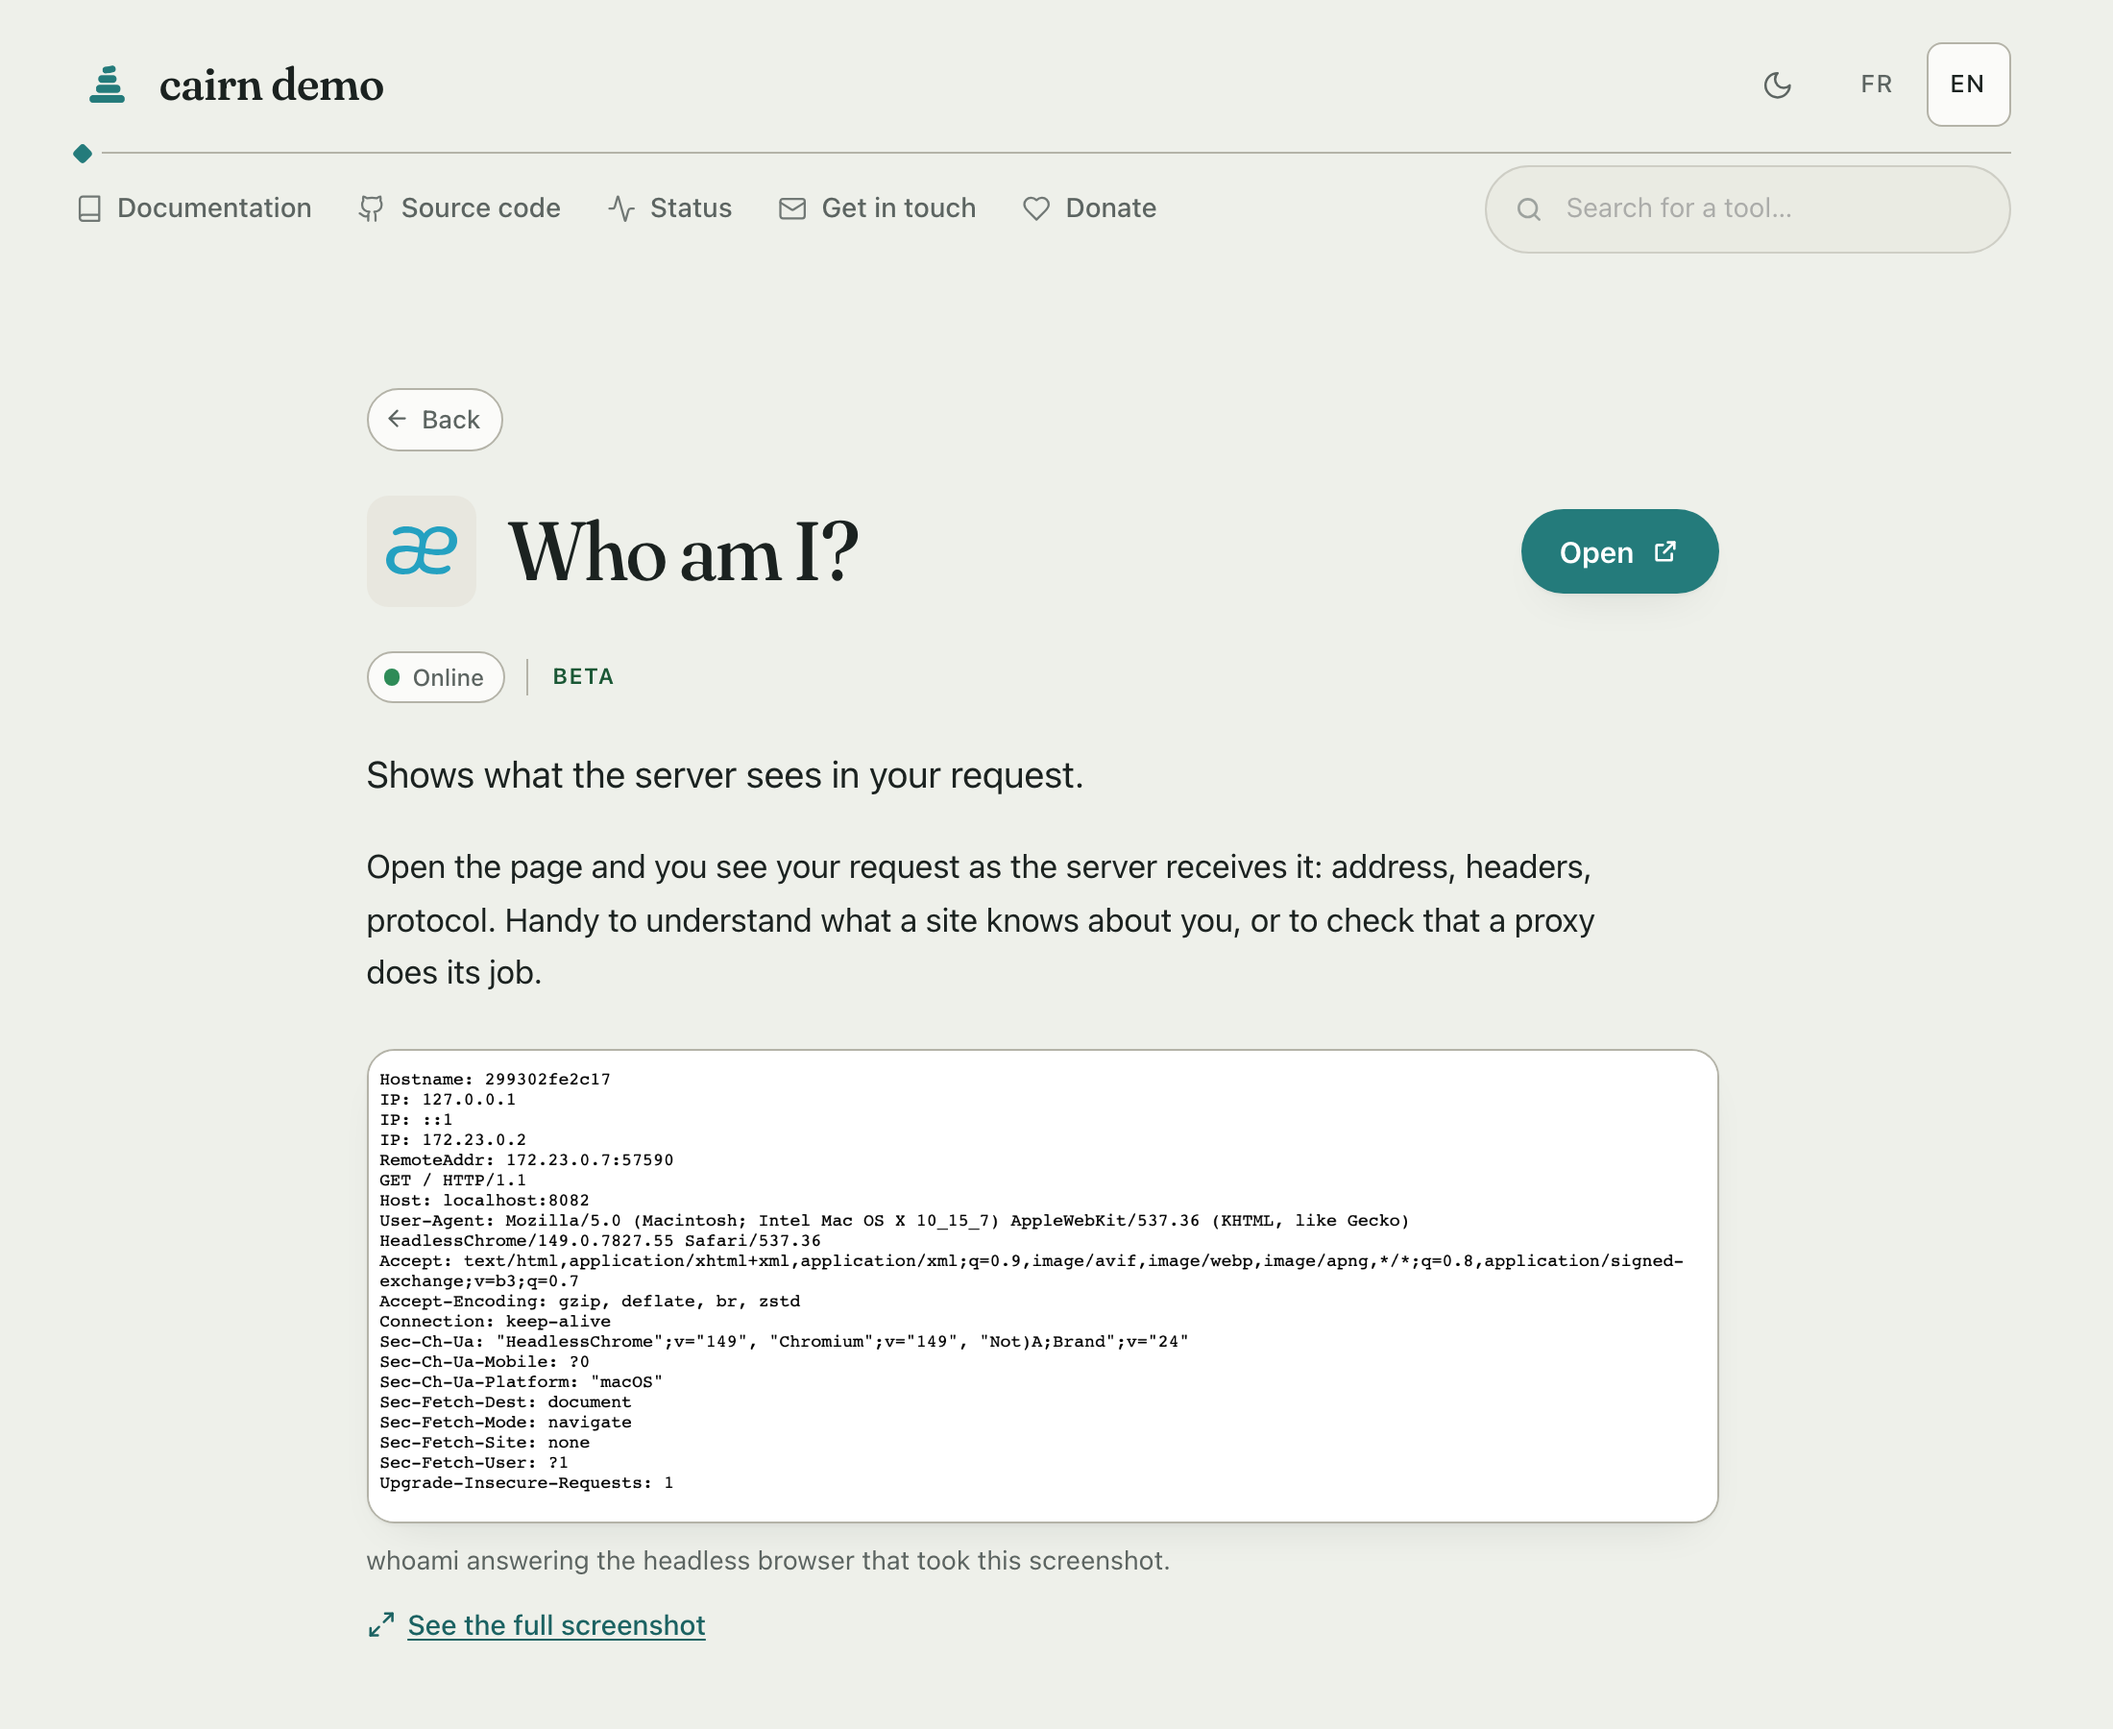
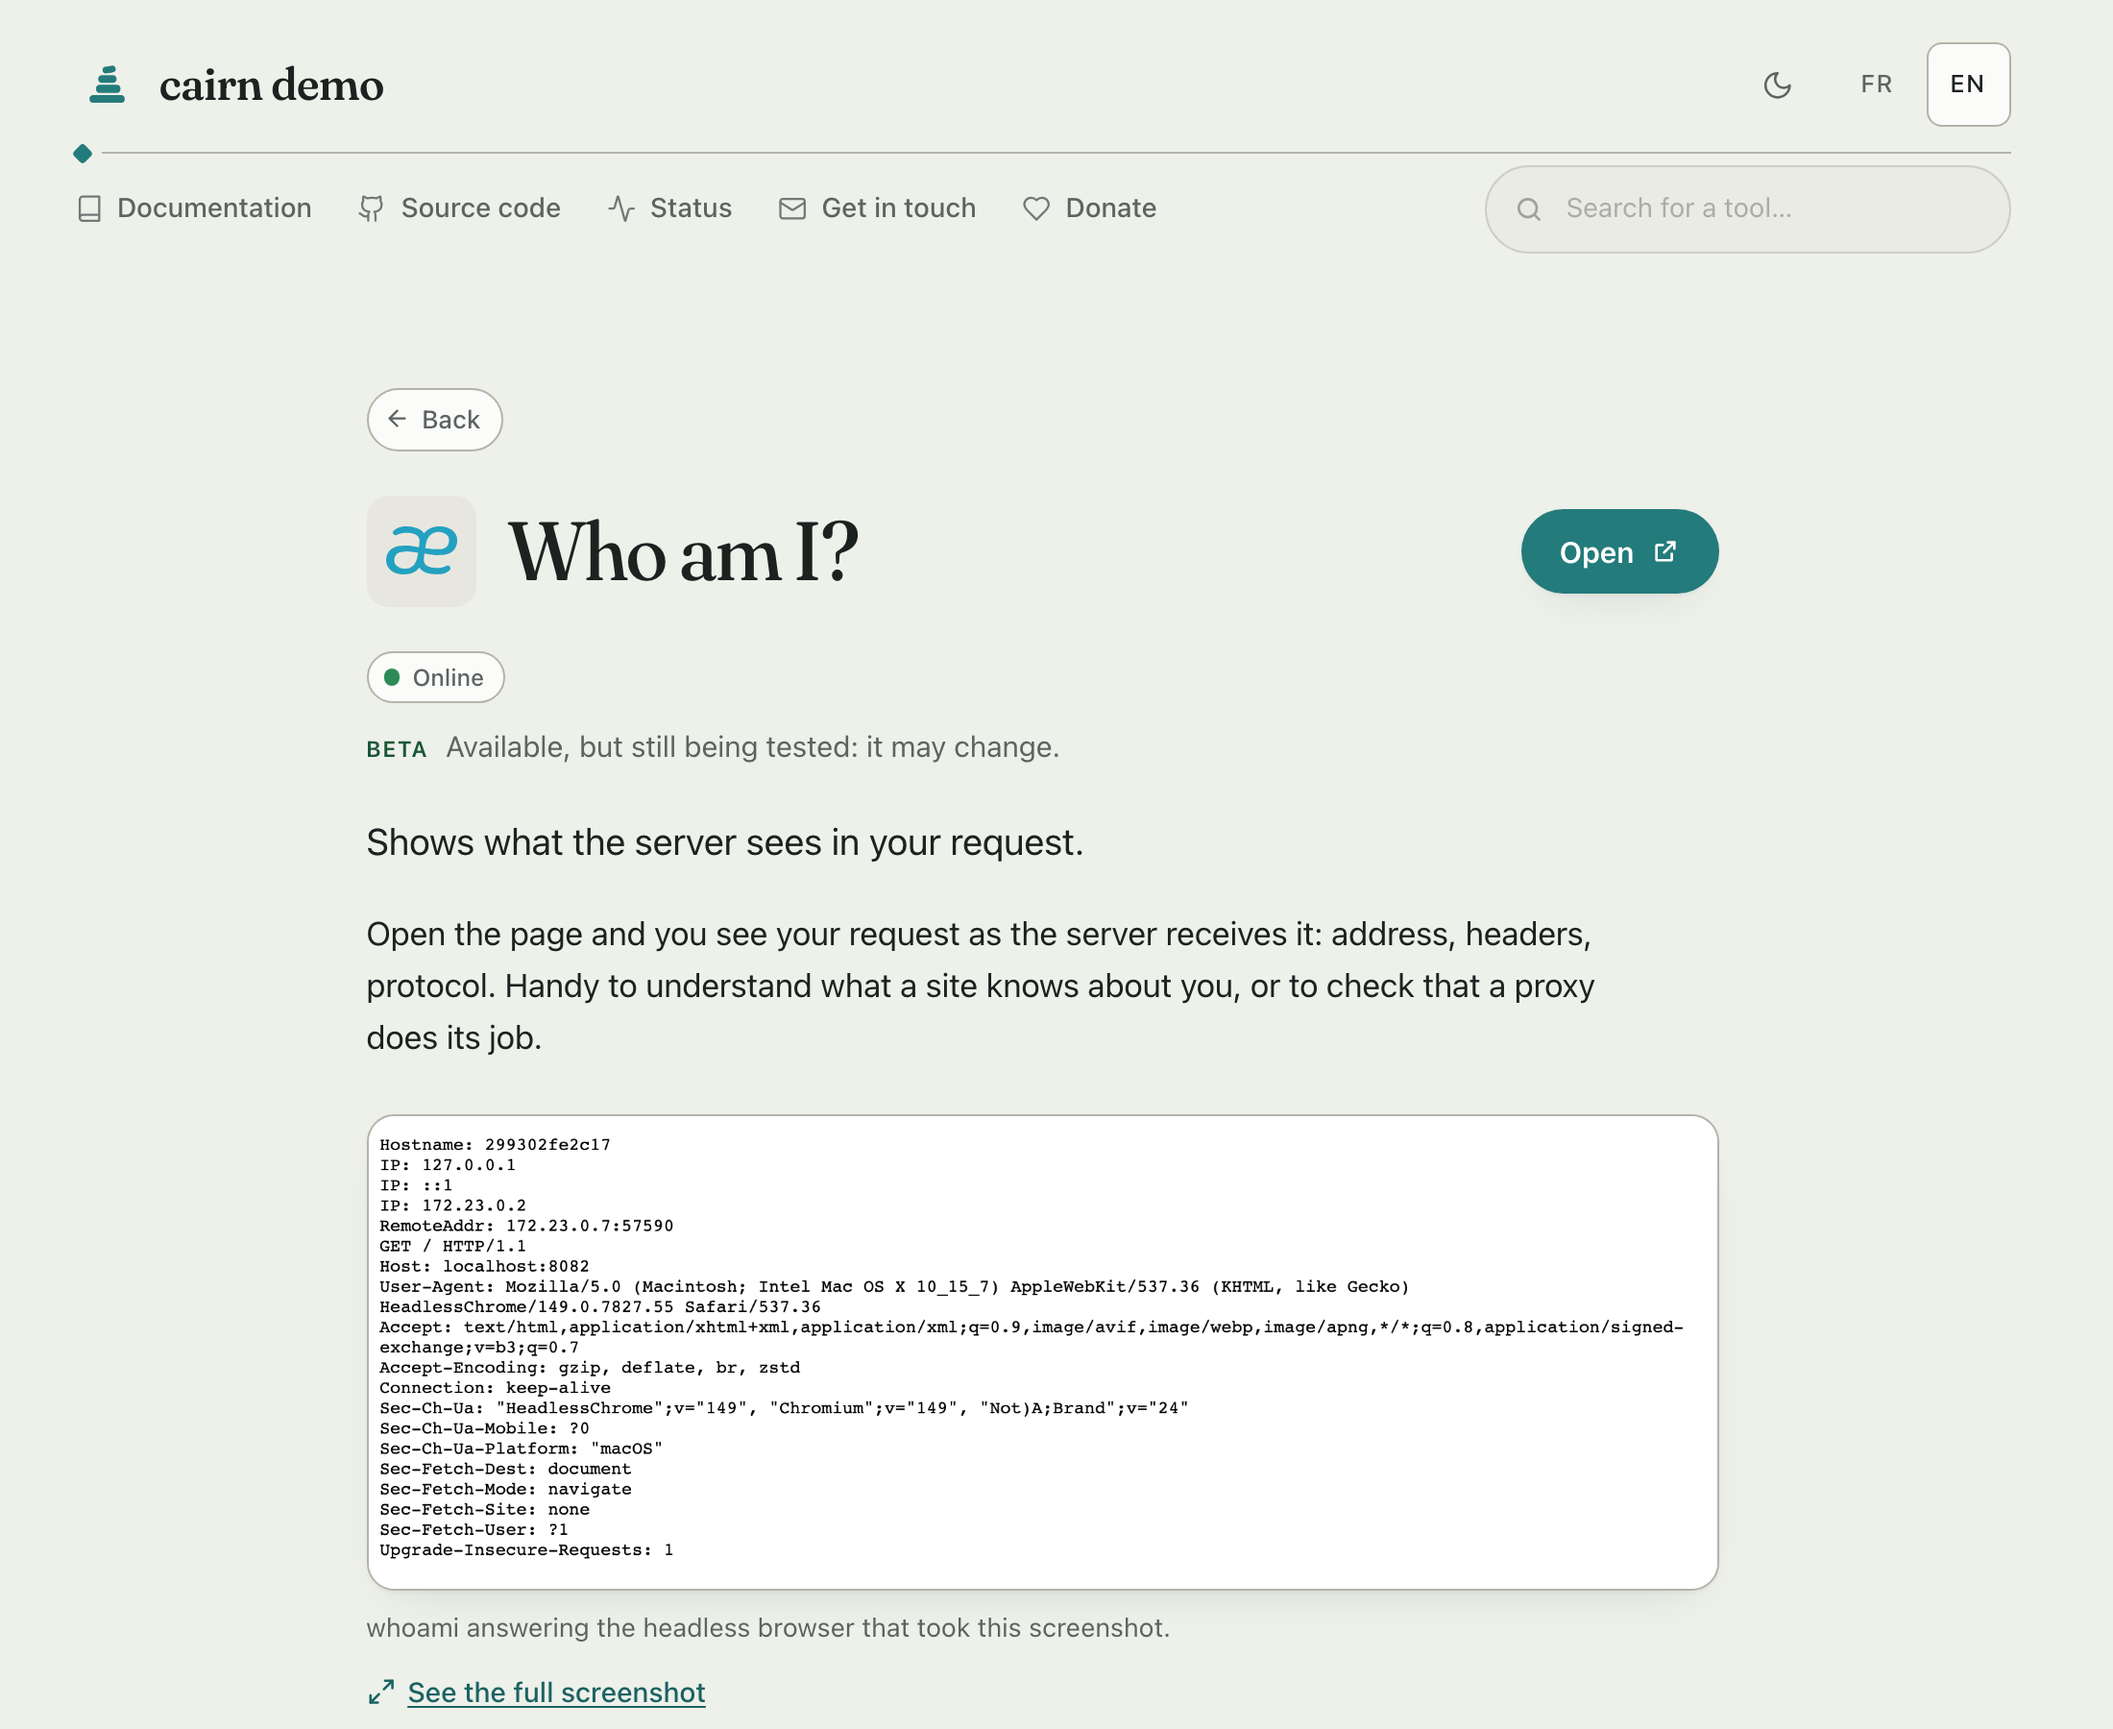
Bump to 1.26.0
One feature since 1.25.1 (#152): each service state explains itself. The
badge on a card opens a one-line note in the browser's own popover, the
detail page shows the note under the status pill, the five notes ship in
the eight built-in languages, and state_note replaces a service's note.

Compared against v1.25.1 through the same config trees: 153 responses,
144 identical once asset digests are blurred. The 3 that differ are the
states fixture's home page (badges become buttons with their notes) and
its two detail pages (the state line gains its note); the 6 on one side
only are the new stylesheet URL. A control diffing two different pages
printed 132 lines.

just shots rewrote all six images: the cards' badges changed. 603 Go
tests, chart lint clean.

diff --git a/docs/deployment/airgap.md b/docs/deployment/airgap.md
@@ -14,7 +14,7 @@ page renders, and the icons are simply missing.
 
 | Artifact             | Size     | Where it comes from                                            |
 | -------------------- | -------- | -------------------------------------------------------------- |
-| `cairn-1.25.1.tgz`   | 4 KB     | `helm pull`, the signed artifact rather than the folder in git |
+| `cairn-1.26.0.tgz`   | 4 KB     | `helm pull`, the signed artifact rather than the folder in git |
 | `gatus-1.5.0.tgz`    | 9 KB     | the Gatus project's own chart                                  |
 | `images.tar`         | 26 MB    | `docker save` of cairn and Gatus                               |
 | `assets/icons/*.svg` | a few KB | what `cairn -emit-icons` downloads                             |
@@ -32,7 +32,7 @@ Everything in this section can be done by hand, and the rest of it shows how.
 If you have cairn checked out, two of the steps are a recipe:
 
 ```sh
-just save 1.25.1 linux/amd64   # the platform of the cluster, not of your laptop
+just save 1.26.0 linux/amd64   # the platform of the cluster, not of your laptop
 ```
 
 That pulls cairn's image for that one platform, saves it to `dist/`, pulls the
@@ -54,14 +54,14 @@ The order matters. `cosign verify` queries the public transparency log, so it is
 not something you get to do on the other side.
 
 ```sh
-helm pull oci://ghcr.io/morgankryze/charts/cairn --version 1.25.1
+helm pull oci://ghcr.io/morgankryze/charts/cairn --version 1.26.0
 
-cosign verify ghcr.io/morgankryze/charts/cairn:1.25.1 \
+cosign verify ghcr.io/morgankryze/charts/cairn:1.26.0 \
   --certificate-identity-regexp '^https://github.com/MorganKryze/cairn/' \
   --certificate-oidc-issuer https://token.actions.githubusercontent.com
 ```
 
-The same two lines for `morgankryze/cairn:1.25.1`, the image. Keep the
+The same two lines for `morgankryze/cairn:1.26.0`, the image. Keep the
 output: this is the only moment where you can prove where these bytes came from.
 
 Gatus publishes its own chart, from a classic repository rather than a registry,
@@ -86,7 +86,7 @@ amd64 cluster from an arm64 laptop is the classic way to learn this at
 ```sh
 PLATFORM=linux/amd64
 
-docker pull --platform $PLATFORM morgankryze/cairn:1.25.1
+docker pull --platform $PLATFORM morgankryze/cairn:1.26.0
 docker pull --platform $PLATFORM ghcr.io/twin/gatus:v5.36.0
 ```
 
@@ -97,9 +97,9 @@ names nothing you can reason about six months later. To be exact, v5.36.0 is
 Then give both the name they will carry inside, and save them together:
 
 ```sh
-docker tag morgankryze/cairn:1.25.1 harbor.internal/cairn:1.25.1
+docker tag morgankryze/cairn:1.26.0 harbor.internal/cairn:1.26.0
 docker tag ghcr.io/twin/gatus:v5.36.0 harbor.internal/gatus:5.36.0
-docker save harbor.internal/cairn:1.25.1 harbor.internal/gatus:5.36.0 -o images.tar
+docker save harbor.internal/cairn:1.26.0 harbor.internal/gatus:5.36.0 -o images.tar
 ```
 
 Retag even if you have no registry. An image named after a host that resolves
@@ -111,7 +111,7 @@ to have a route after all: the mistake becomes loud instead of invisible.
 This is the step nothing downstream will remind you about.
 
 ```sh
-docker run --rm -v ./config:/config morgankryze/cairn:1.25.1 -emit-icons > get-icons.sh
+docker run --rm -v ./config:/config morgankryze/cairn:1.26.0 -emit-icons > get-icons.sh
 mkdir -p assets && (cd assets && sh ../get-icons.sh)
 ```
 
@@ -123,7 +123,7 @@ bring the files. See [Icons](../recipes/icons.md).
 ### The Gatus endpoints
 
 ```sh
-docker run --rm -v ./config:/config morgankryze/cairn:1.25.1 -emit-gatus > gatus-endpoints.yaml
+docker run --rm -v ./config:/config morgankryze/cairn:1.26.0 -emit-gatus > gatus-endpoints.yaml
 ```
 
 One endpoint per service, named after its id, which is how each pill finds its
@@ -133,7 +133,7 @@ service. More in [Status page](../recipes/status.md).
 
 ```sh
 docker run --rm -v ./config:/config:ro -v ./assets:/assets:ro \
-  morgankryze/cairn:1.25.1 -check
+  morgankryze/cairn:1.26.0 -check
 ```
 
 **Mount both directories.** Given only `/config`, `-check` cannot see the icons
@@ -164,7 +164,7 @@ the far side of the gap there is no fixing a broken image with a download.
 
 ```sh
 docker load -i images.tar
-docker push harbor.internal/cairn:1.25.1
+docker push harbor.internal/cairn:1.26.0
 docker push harbor.internal/gatus:5.36.0
 ```
 
@@ -174,7 +174,7 @@ Harbor, Zot or `registry:2` you already run. The chart wants one value.
 ```yaml
 image:
   repository: harbor.internal/cairn
-  tag: "1.25.1"
+  tag: "1.26.0"
 # Only if the project is private. The Secrets have to exist in the namespace
 # already; the chart names them, it does not create them.
 imagePullSecrets:
@@ -186,7 +186,7 @@ OCI artifacts, so a project named `helm` holds them next to the images and
 nothing else has to be installed:
 
 ```sh
-helm push cairn-1.25.1.tgz oci://harbor.internal/helm
+helm push cairn-1.26.0.tgz oci://harbor.internal/helm
 helm push gatus-1.5.0.tgz oci://harbor.internal/helm
 ```
 
@@ -221,7 +221,7 @@ it worked:
 
 ```console
 $ kubectl get events --field-selector reason=Pulled
-Container image "harbor.internal/cairn:1.25.1" already present on machine
+Container image "harbor.internal/cairn:1.26.0" already present on machine
 Container image "harbor.internal/gatus:5.36.0" already present on machine
 ```
 
@@ -245,7 +245,7 @@ under `binaryData` on its own.
 # values.yaml
 image:
   repository: harbor.internal/cairn
-  tag: "1.25.1"
+  tag: "1.26.0"
 
 config:
   site.yaml: |
@@ -294,7 +294,7 @@ and one version to name, which is also what Argo CD will read:
 
 ```sh
 helm registry login harbor.internal --ca-file /etc/pki/internal-ca.crt
-helm install cairn oci://harbor.internal/helm/cairn --version 1.25.1 \
+helm install cairn oci://harbor.internal/helm/cairn --version 1.26.0 \
   --ca-file /etc/pki/internal-ca.crt -f values.yaml
 ```
 
@@ -311,7 +311,7 @@ credential store: a `docker login` already done on that host does not count.
 Without a registry, install what you carried:
 
 ```sh
-helm install cairn ./cairn-1.25.1.tgz -f values.yaml
+helm install cairn ./cairn-1.26.0.tgz -f values.yaml
 ```
 
 `linked: false` is a decision rather than an omission. Without it the pills link
@@ -651,7 +651,7 @@ no shell, no busybox, nothing to attach to. What you need is in the logs, on
 The same crossing, then:
 
 ```sh
-helm upgrade cairn oci://harbor.internal/helm/cairn --version 1.25.1 -f values.yaml
+helm upgrade cairn oci://harbor.internal/helm/cairn --version 1.26.0 -f values.yaml
 ```
 
 Always pass your full values file. As soon as one `-f` is present, Helm stops

diff --git a/docs/deployment/helm.md b/docs/deployment/helm.md
@@ -26,8 +26,8 @@ kubectl port-forward svc/cairn 8080:80
 
 Add `--version` with the number from the
 [releases](https://github.com/MorganKryze/cairn/releases) to pin. Chart version
-and cairn version are the same number, always: chart `1.25.1` installs cairn
-`1.25.1`, so there is only ever one version to talk about, and `image.tag` is
+and cairn version are the same number, always: chart `1.26.0` installs cairn
+`1.26.0`, so there is only ever one version to talk about, and `image.tag` is
 there if you ever want to break the pair apart.
 
 ## Seeing it filled first
@@ -229,8 +229,8 @@ OCI artifact, so it can be mirrored into whatever registry you already keep, and
 driven from there:
 
 ```sh
-helm pull oci://ghcr.io/morgankryze/charts/cairn --version 1.25.1
-helm push cairn-1.25.1.tgz oci://harbor.internal/helm
+helm pull oci://ghcr.io/morgankryze/charts/cairn --version 1.26.0
+helm push cairn-1.26.0.tgz oci://harbor.internal/helm
 ```
 
 Argo CD needs the repository declared before an Application can name it. Note
@@ -266,7 +266,7 @@ spec:
   source:
     repoURL: harbor.internal/helm
     chart: cairn
-    targetRevision: 1.25.1
+    targetRevision: 1.26.0
     helm:
       valuesObject:
         ingress:
@@ -290,7 +290,7 @@ spec:
   sources:
     - repoURL: harbor.internal/helm
       chart: cairn
-      targetRevision: 1.25.1
+      targetRevision: 1.26.0
       helm:
         valueFiles:
           - $values/cairn/values.yaml
@@ -317,7 +317,7 @@ The chart is signed the same way the image is, keylessly, bound to the workflow
 that published it:
 
 ```sh
-cosign verify ghcr.io/morgankryze/charts/cairn:1.25.1 \
+cosign verify ghcr.io/morgankryze/charts/cairn:1.26.0 \
   --certificate-identity-regexp '^https://github.com/MorganKryze/cairn/' \
   --certificate-oidc-issuer https://token.actions.githubusercontent.com
 ```

diff --git a/docs/deployment/static.md b/docs/deployment/static.md
@@ -37,7 +37,7 @@ With the binary from a [release](https://github.com/MorganKryze/cairn/releases),
 here for Linux on amd64 (`linux_arm64` and `darwin_arm64` are there too):
 
 ```sh
-curl -fsSL https://github.com/MorganKryze/cairn/releases/download/v1.25.1/cairn_1.25.1_linux_amd64.tar.gz | tar -xz cairn
+curl -fsSL https://github.com/MorganKryze/cairn/releases/download/v1.26.0/cairn_1.26.0_linux_amd64.tar.gz | tar -xz cairn
 ./cairn -config ./config -assets ./assets -export site.zip
 ```
 
@@ -45,7 +45,7 @@ With the image, and nothing else installed:
 
 ```sh
 docker run --rm --user "$(id -u):$(id -g)" -v "$PWD:/work" \
-  morgankryze/cairn:1.25.1 -config /work/config -assets /work/assets -export /work/site.zip
+  morgankryze/cairn:1.26.0 -config /work/config -assets /work/assets -export /work/site.zip
 ```
 
 Keep `--user`. The image runs as `nobody`, and `nobody` cannot write into a
@@ -149,7 +149,7 @@ jobs:
       - name: export the site
         run: |
           docker run --rm --user "$(id -u):$(id -g)" -v "$PWD:/work" \
-            morgankryze/cairn:1.25.1 -config /work/config -assets /work/assets -export /work/site
+            morgankryze/cairn:1.26.0 -config /work/config -assets /work/assets -export /work/site
       - uses: actions/upload-artifact@v4
         with:
           name: site

diff --git a/docs/upgrading.md b/docs/upgrading.md
@@ -10,7 +10,7 @@ The new image validates your existing config without touching anything you are
 running. Do this first, every time:
 
 ```sh
-docker run --rm -v ./config:/config morgankryze/cairn:1.25.1 -check
+docker run --rm -v ./config:/config morgankryze/cairn:1.26.0 -check
 ```
 
 Exit code 0 means the upgrade will load. Exit 1 prints the exact message and
